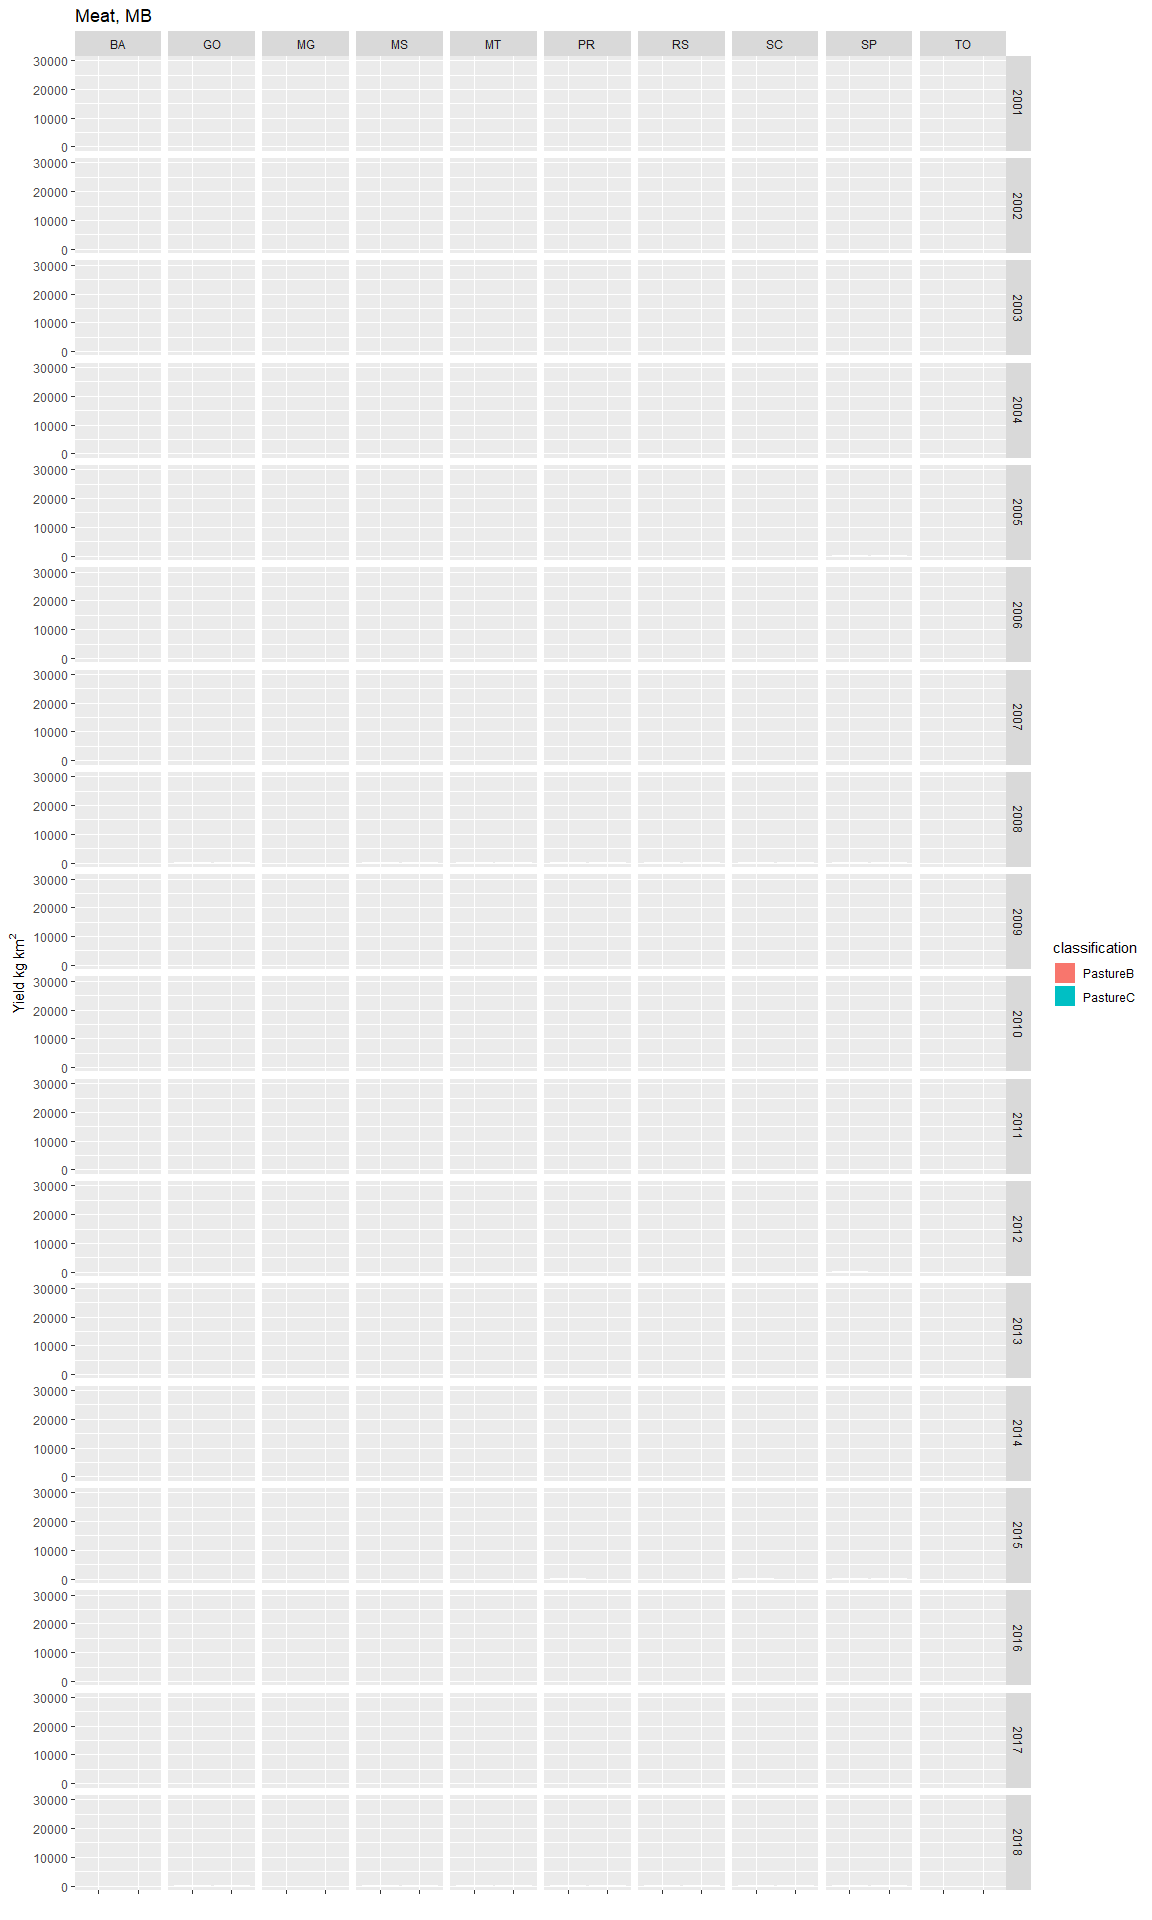
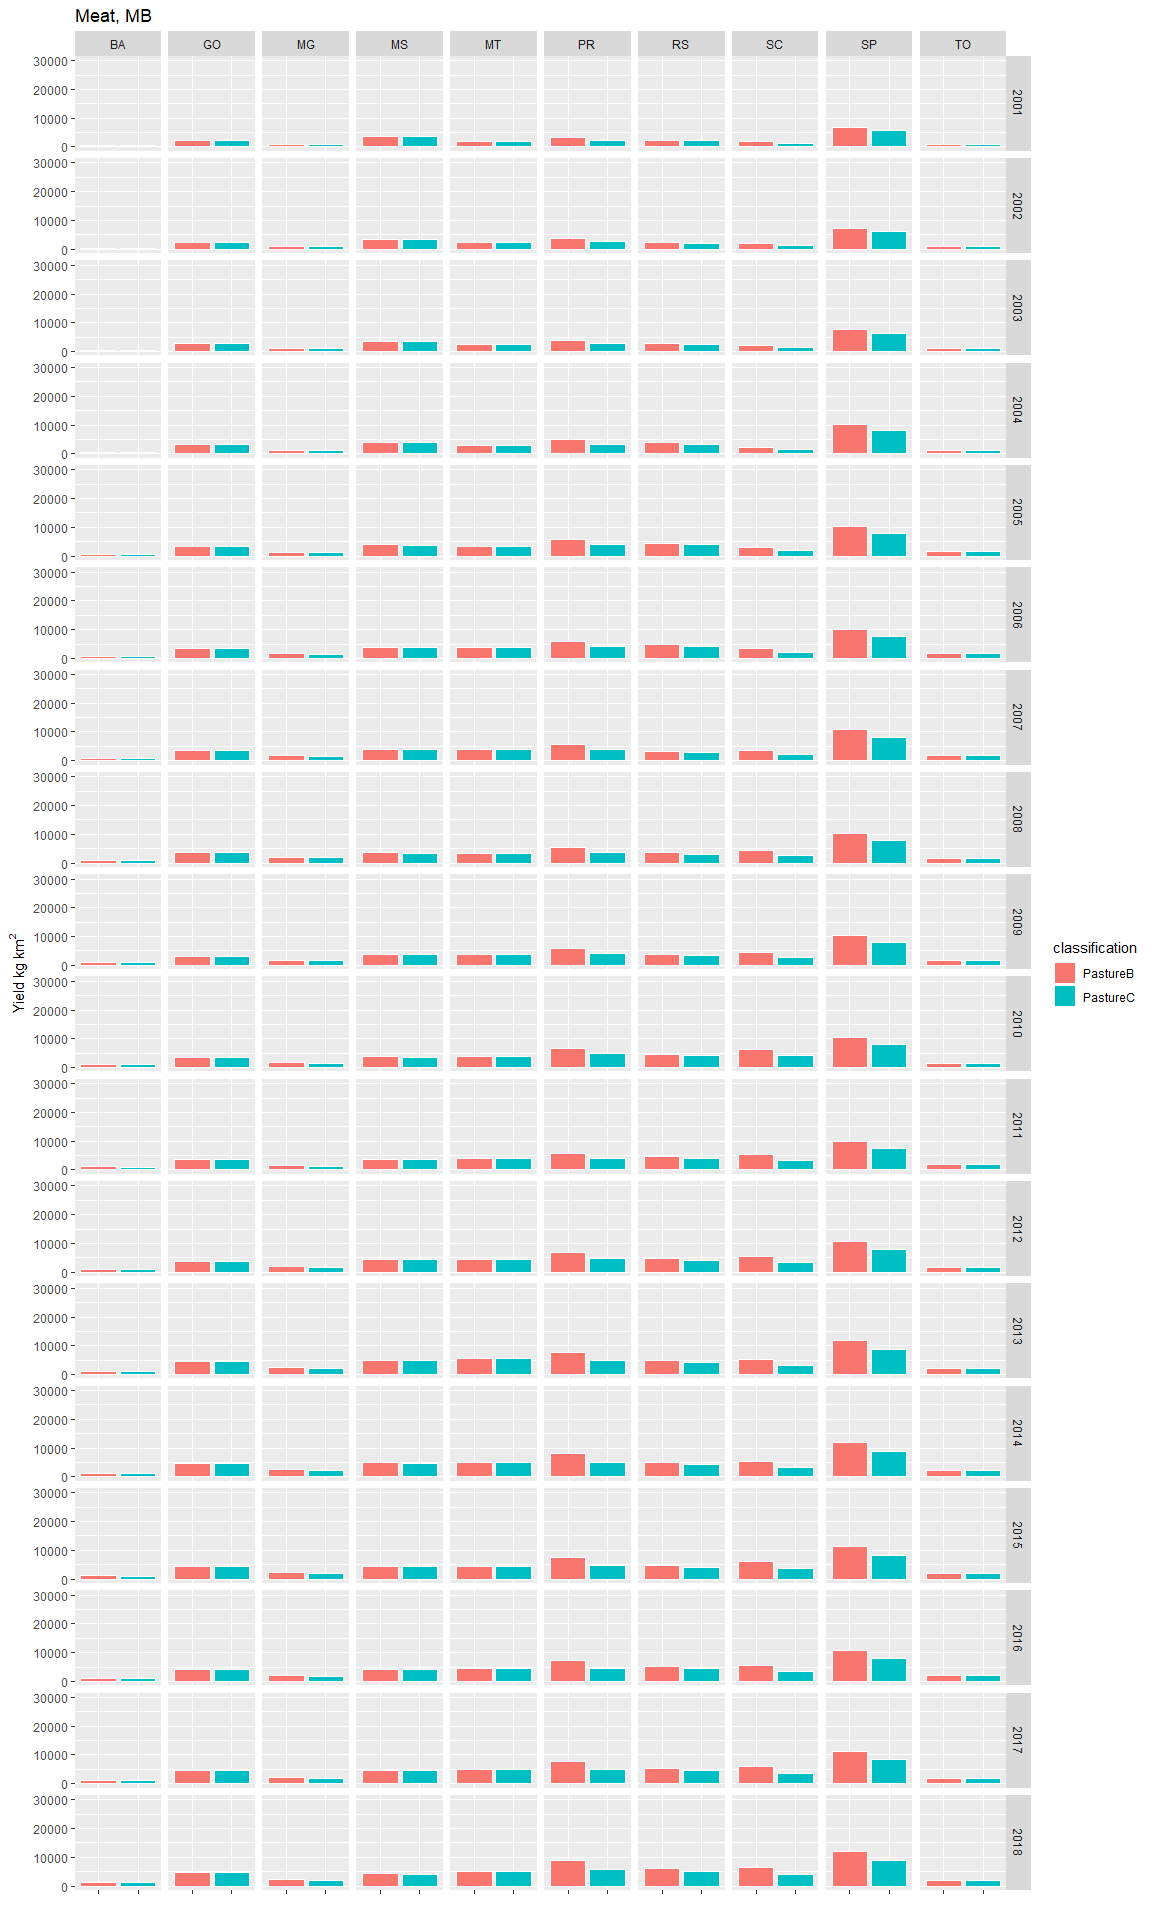
fix bug to convert MapBiomas data from ha to km2

diff --git a/ClassificationComparison.md b/ClassificationComparison.md
@@ -105,6 +105,8 @@ names(Stotals_ls) <- cls
 names(SDataW_Adj_ls) <- cls
 names(mapStack_ls) <- cls
 
+#i <- 1
+#j <- 1
 
 #loop over classifications
 for(i in seq_along(cls)){
@@ -240,9 +242,9 @@ for(i in seq_along(cls)){
       group_by(state, LC) %>%
       dplyr::summarise_at(vars(area),sum, na.rm=T) 
     
-    #round to integer
+    #convert ha to km2 and round to integer
     mb_areas <- mb_areas %>%
-      mutate(area_km2 = round(area,0))
+      mutate(area_km2 = round(area/100,0))  
     
     #add source variable for plotting below (re-order to match map table for union below)
     mb_areas <- mb_areas %>%
@@ -588,46 +590,46 @@ kable(arrange(meat_summary, desc(int_mn), state, classification), caption="Meat 
 
 | state | classification | source |  area\_mn|  area\_md|  area\_sd|    prod\_mn|    prod\_md|   prod\_sd|  int\_mn|  int\_md|  int\_max|  int\_sd|  int\_se|
 |:------|:---------------|:-------|---------:|---------:|---------:|-----------:|-----------:|----------:|--------:|--------:|---------:|--------:|--------:|
+| SP    | PastureB       | MB     |     88274|     84817|     16446|   880816960|   870950541|   91210533|    10207|    10486|     11929|     1494|   83.017|
+| SP    | PastureC       | MB     |    114472|    110626|     16803|   880816960|   870950541|   91210533|     7792|     8011|      8913|      922|   51.249|
 | SP    | PastureB       | Map    |    124604|    121625|     25823|   880816960|   870950541|   91210533|     7282|     7313|      8967|     1205|   66.945|
 | SP    | PastureC       | Map    |    127232|    124388|     26322|   880816960|   870950541|   91210533|     7132|     7133|      8811|     1181|   65.594|
+| PR    | PastureB       | MB     |     49042|     49582|      7509|   291649500|   297667138|   42711475|     6170|     5906|      9019|     1620|   90.010|
 | PR    | PastureB       | Map    |     63408|     63625|      9487|   291649500|   297667138|   42711475|     4767|     4583|      7144|     1249|   69.387|
 | PR    | PastureC       | Map    |     65007|     64538|     10145|   291649500|   297667138|   42711475|     4661|     4485|      7022|     1244|   69.100|
 | SC    | PastureB       | Map    |     18619|     17850|      2943|    79782379|    83685623|   21767455|     4536|     4784|      7525|     1762|   97.871|
+| SC    | PastureB       | MB     |     19004|     17912|      2468|    79782379|    83685623|   21767455|     4380|     4719|      6589|     1575|   87.499|
 | SC    | PastureC       | Map    |     20010|     19150|      3722|    79782379|    83685623|   21767455|     4286|     4509|      7449|     1768|   98.217|
+| RS    | PastureB       | MB     |     90356|     90410|      7342|   375753478|   413311373|   72199590|     4231|     4712|      5960|     1046|   58.111|
+| PR    | PastureC       | MB     |     72165|     70252|      7730|   291649500|   297667138|   42711475|     4128|     4120|      5691|      924|   51.320|
+| MS    | PastureB       | MB     |    206303|    210929|      9435|   837499993|   831817738|   71456659|     4074|     3981|      4946|      459|   25.524|
+| MS    | PastureC       | MB     |    211456|    215817|      8895|   837499993|   831817738|   71456659|     3973|     3889|      4819|      439|   24.377|
+| MT    | PastureB       | MB     |    267793|    267341|      8325|  1042707556|  1084011426|  269548255|     3883|     3966|      5454|      984|   54.650|
+| MT    | PastureC       | MB     |    267793|    267341|      8325|  1042707556|  1084011426|  269548255|     3883|     3966|      5454|      984|   54.650|
 | MT    | PastureB       | Map    |    277010|    279212|     12954|  1042707556|  1084011426|  269548255|     3741|     3811|      5218|      902|   50.090|
 | MT    | PastureC       | Map    |    277010|    279212|     12954|  1042707556|  1084011426|  269548255|     3741|     3811|      5218|      902|   50.090|
+| RS    | PastureC       | MB     |    103428|    104151|      7687|   375753478|   413311373|   72199590|     3689|     4104|      5199|      898|   49.892|
+| GO    | PastureB       | MB     |    186867|    190072|      7066|   678720004|   665431408|  118974231|     3656|     3503|      4732|      759|   42.177|
+| GO    | PastureC       | MB     |    188371|    191580|      7122|   678720004|   665431408|  118974231|     3627|     3476|      4695|      753|   41.844|
 | RS    | PastureB       | Map    |    116060|    118000|     11596|   375753478|   413311373|   72199590|     3313|     3618|      4876|      872|   48.434|
 | RS    | PastureC       | Map    |    117586|    119550|     12276|   375753478|   413311373|   72199590|     3275|     3569|      4856|      874|   48.581|
 | MS    | PastureB       | Map    |    272122|    278512|     12536|   837499993|   831817738|   71456659|     3089|     3020|      3748|      350|   19.462|
 | MS    | PastureC       | Map    |    272568|    278812|     12435|   837499993|   831817738|   71456659|     3084|     3015|      3740|      349|   19.366|
+| SC    | PastureC       | MB     |     29854|     28918|      2745|    79782379|    83685623|   21767455|     2751|     2921|      4154|      940|   52.203|
 | GO    | PastureB       | Map    |    254365|    258388|      8033|   678720004|   665431408|  118974231|     2682|     2570|      3452|      540|   29.974|
 | GO    | PastureC       | Map    |    254722|    258850|      8000|   678720004|   665431408|  118974231|     2678|     2566|      3444|      538|   29.889|
+| MG    | PastureB       | MB     |    314784|    315220|     13010|   546551458|   578287703|  135752793|     1753|     1813|      2446|      485|   26.965|
 | TO    | PastureB       | Map    |    124700|    126025|      7028|   217005322|   239460070|   51372875|     1725|     1836|      2131|      345|   19.156|
 | TO    | PastureC       | Map    |    124700|    126025|      7028|   217005322|   239460070|   51372875|     1725|     1836|      2131|      345|   19.156|
+| TO    | PastureB       | MB     |    130764|    131570|      2784|   217005322|   239460070|   51372875|     1654|     1792|      2083|      372|   20.645|
+| TO    | PastureC       | MB     |    130764|    131570|      2784|   217005322|   239460070|   51372875|     1654|     1792|      2083|      372|   20.645|
+| MG    | PastureC       | MB     |    354987|    354518|      9453|   546551458|   578287703|  135752793|     1549|     1618|      2144|      413|   22.929|
 | MG    | PastureB       | Map    |    439921|    440700|     10097|   546551458|   578287703|  135752793|     1248|     1304|      1717|      328|   18.240|
 | MG    | PastureC       | Map    |    441279|    441912|      9930|   546551458|   578287703|  135752793|     1244|     1301|      1711|      327|   18.160|
+| BA    | PastureB       | MB     |    253767|    252809|      3240|   230127563|   258599738|   73385323|      910|     1033|      1249|      296|   16.434|
+| BA    | PastureC       | MB     |    268017|    267238|      2872|   230127563|   258599738|   73385323|      861|      975|      1186|      279|   15.510|
 | BA    | PastureB       | Map    |    270288|    268962|      4463|   230127563|   258599738|   73385323|      855|      969|      1176|      280|   15.550|
 | BA    | PastureC       | Map    |    270524|    269225|      4544|   230127563|   258599738|   73385323|      855|      968|      1176|      280|   15.546|
-| SP    | PastureB       | MB     |   8827390|   8481704|   1644597|   880816960|   870950541|   91210533|      102|      105|       119|       15|    0.830|
-| SP    | PastureC       | MB     |  11447193|  11062556|   1680333|   880816960|   870950541|   91210533|       78|       80|        89|        9|    0.512|
-| PR    | PastureB       | MB     |   4904163|   4958211|    750851|   291649500|   297667138|   42711475|       62|       59|        90|       16|    0.900|
-| SC    | PastureB       | MB     |   1900454|   1791137|    246810|    79782379|    83685623|   21767455|       44|       47|        66|       16|    0.875|
-| RS    | PastureB       | MB     |   9035611|   9040966|    734173|   375753478|   413311373|   72199590|       42|       47|        60|       10|    0.581|
-| MS    | PastureB       | MB     |  20630261|  21092922|    943553|   837499993|   831817738|   71456659|       41|       40|        49|        5|    0.255|
-| PR    | PastureC       | MB     |   7216528|   7025104|    773046|   291649500|   297667138|   42711475|       41|       41|        57|        9|    0.513|
-| MS    | PastureC       | MB     |  21145638|  21581702|    889498|   837499993|   831817738|   71456659|       40|       39|        48|        4|    0.244|
-| MT    | PastureB       | MB     |  26779247|  26734096|    832469|  1042707556|  1084011426|  269548255|       39|       40|        55|       10|    0.547|
-| MT    | PastureC       | MB     |  26779247|  26734096|    832469|  1042707556|  1084011426|  269548255|       39|       40|        55|       10|    0.547|
-| GO    | PastureB       | MB     |  18686733|  19007282|    706595|   678720004|   665431408|  118974231|       37|       35|        47|        8|    0.422|
-| RS    | PastureC       | MB     |  10342832|  10415130|    768674|   375753478|   413311373|   72199590|       37|       41|        52|        9|    0.499|
-| GO    | PastureC       | MB     |  18837064|  19157955|    712235|   678720004|   665431408|  118974231|       36|       35|        47|        8|    0.418|
-| SC    | PastureC       | MB     |   2985353|   2891796|    274491|    79782379|    83685623|   21767455|       28|       29|        42|        9|    0.522|
-| MG    | PastureB       | MB     |  31478404|  31521990|   1301009|   546551458|   578287703|  135752793|       18|       18|        24|        5|    0.270|
-| TO    | PastureB       | MB     |  13076418|  13156970|    278390|   217005322|   239460070|   51372875|       17|       18|        21|        4|    0.206|
-| TO    | PastureC       | MB     |  13076418|  13156970|    278390|   217005322|   239460070|   51372875|       17|       18|        21|        4|    0.206|
-| MG    | PastureC       | MB     |  35498745|  35451756|    945303|   546551458|   578287703|  135752793|       15|       16|        21|        4|    0.229|
-| BA    | PastureB       | MB     |  25376665|  25280897|    324012|   230127563|   258599738|   73385323|        9|       10|        12|        3|    0.164|
-| BA    | PastureC       | MB     |  26801678|  26723792|    287172|   230127563|   258599738|   73385323|        9|       10|        12|        3|    0.155|
 
 ``` r
 #if needed to remove ASCII folder
